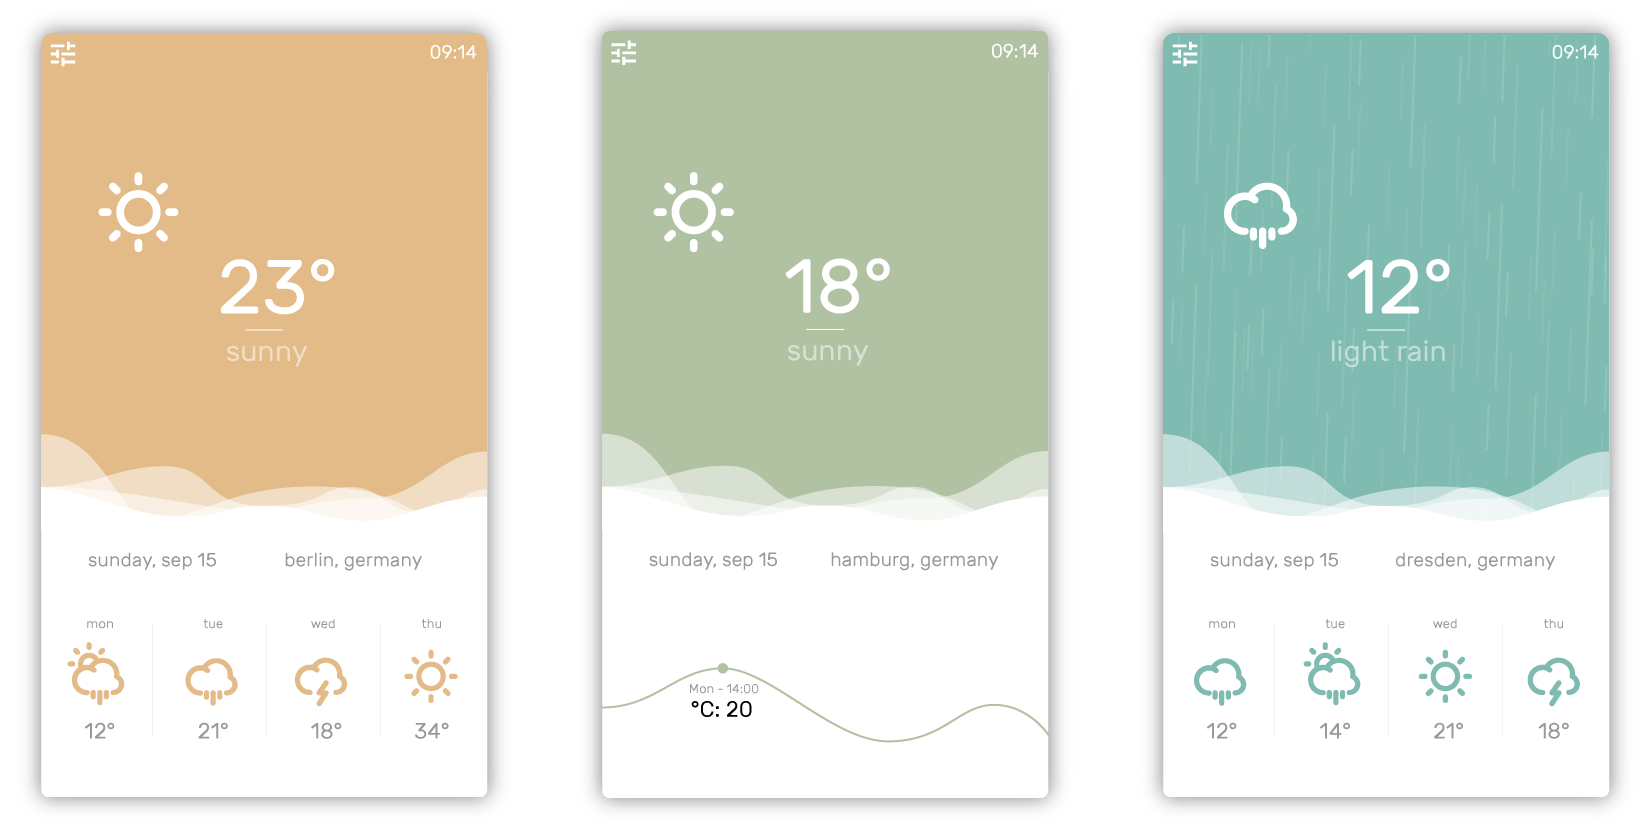
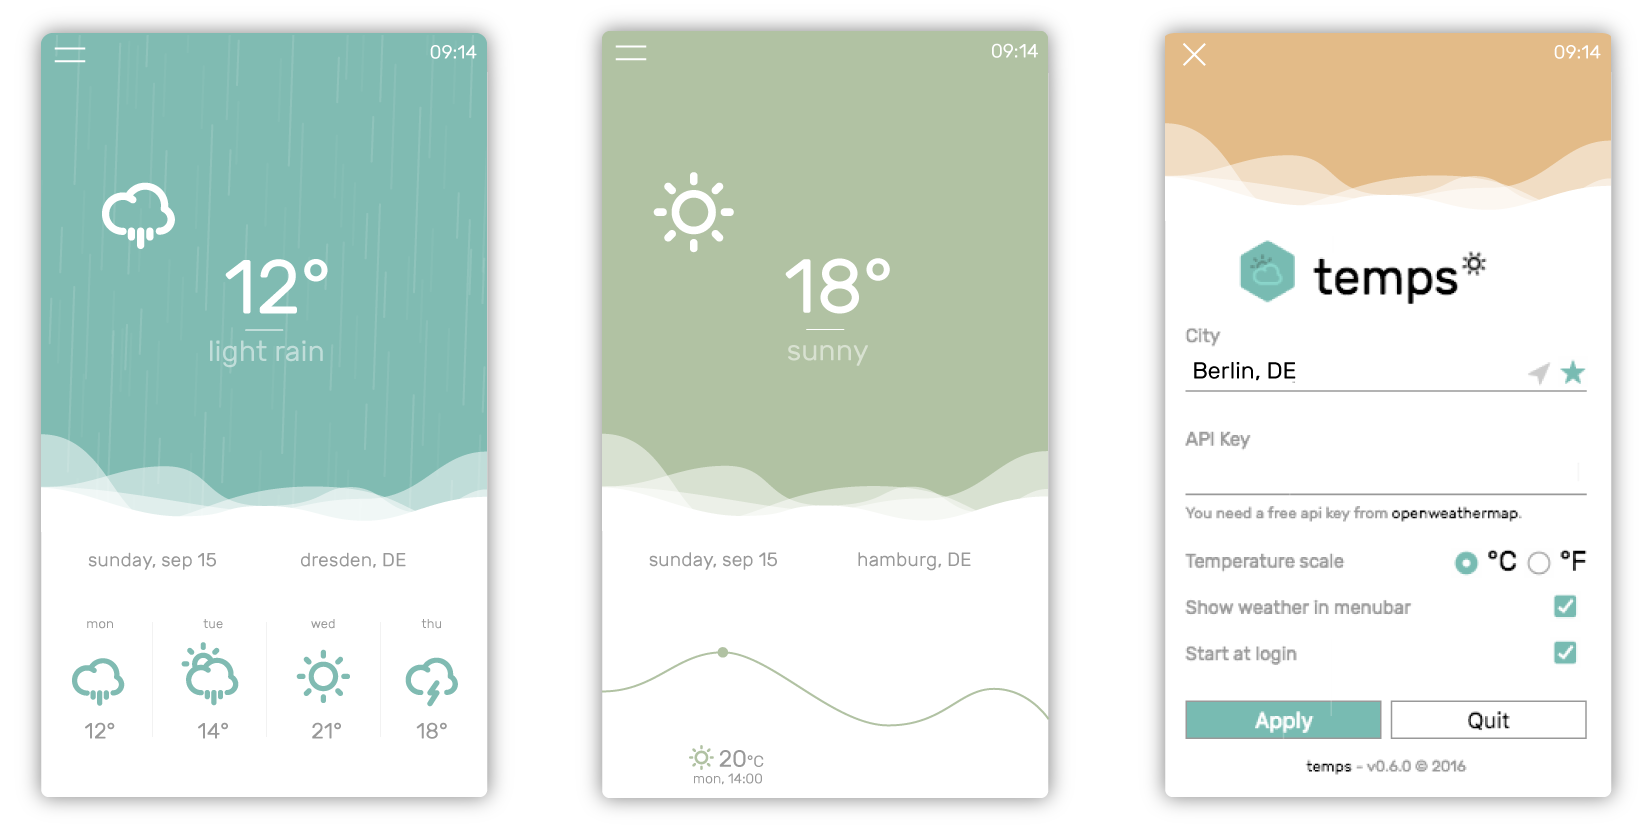
preparing v0.6.1

diff --git a/src/main/index.html b/src/main/index.html
@@ -116,7 +116,7 @@
                     <button class="quit pull-right">Quit</button>
                 </div>
                 <div class="footer">
-                    <a href="https://jackd248.github.io/temps/" target="_blank" alt="temps">temps</a> - v0.6.0 &copy; 2016
+                    <a href="https://jackd248.github.io/temps/" target="_blank" alt="temps">temps</a> - v0.6.1 &copy; 2016
                 </div>
             </div>
         </div>

diff --git a/src/app.js b/src/app.js
@@ -33,7 +33,7 @@ app.on('will-quit', function () {
 const mb = menubar({
   index: path.join('file://', __dirname, '/main/index.html'),
   icon: path.join(__dirname, '/../assets/IconTemplate.png'),
-  width: 580,
+  width: 280,
   height: 480,
   resizable: false,
   'show-dock-icon': false,

diff --git a/README.md b/README.md
@@ -10,9 +10,10 @@ Temps
 <h5 align="center"></h5>
 
 <p align="center">
-  <a href="https://github.com/jackd248/temps/releases"><img src="https://img.shields.io/github/release/jackd248/temps.svg" alt="Release"></a>
-  <a href="https://github.com/jackd248/temps/releases"><img src="https://img.shields.io/github/downloads/jackd248/temps/total.svg" alt="Downloads" /></a>
-  <a href="https://david-dm.org/jackd248/temps" title="dependencies status"><img src="https://david-dm.org/jackd248/temps/status.svg" /></a>
+  <a href="https://github.com/jackd248/temps/releases"><img src="https://img.shields.io/github/release/jackd248/temps.svg?style=flat-square" alt="Release"></a>
+  <a href="https://github.com/jackd248/temps/releases"><img src="https://img.shields.io/github/downloads/jackd248/temps/total.svg?style=flat-square" alt="Downloads" /></a>
+  <a href="https://david-dm.org/jackd248/temps" title="dependencies status"><img src="https://david-dm.org/jackd248/temps/status.svg?style=flat-square" /></a>
+  <a href="https://travis-ci.org/jackd248/temps" title="build status"><img src="https://travis-ci.org/jackd248/temps.svg?branch=master&style=flat-square" /></a>
 </p>
 
 > Temps is a modern and minimal menubar application based on Electron with actual weather information and forecast for Windows, Mac and Linux.
@@ -60,7 +61,7 @@ Builds app binaries for OS X, Linux, and Windows.
 
 ```npm run build```
 
-## Download
+## Download [![Github Releases (by Release)](https://img.shields.io/github/downloads/jackd248/temps/v0.6.0/total.svg?style=flat-square)]()
 
 You can [download](https://github.com/jackd248/temps/releases) the latest stable version of Temps for Windows, Mac OS and Linux. 
 
@@ -85,6 +86,6 @@ This application uses code from several open source projects:
 
 The weather icons are made by myself. If you like to use them in your own project, you can find the icons on [Github](https://github.com/jackd248/weather-iconic) or [Noun Project](https://thenounproject.com/konradmichalik/collection/weather/).
 
-## License
+## License [![License](https://img.shields.io/github/license/jackd248/temps.svg?style=flat-square)]()
 
 Copyright (c) 2016 Konrad Michalik, This software is licensed under the [MIT License](LICENSE).
